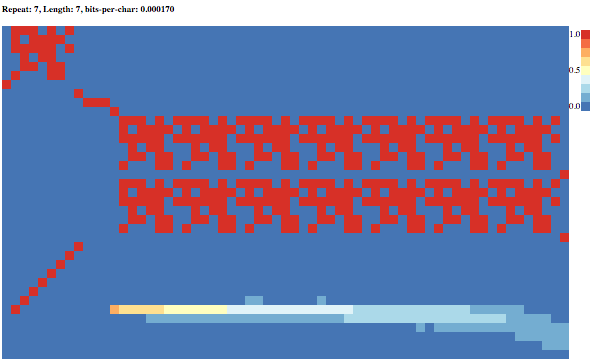
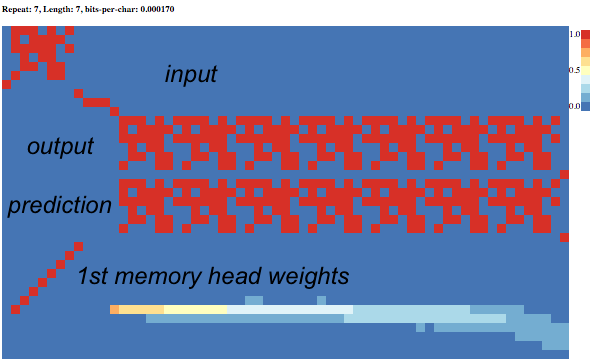
add images in readme

diff --git a/README.md b/README.md
@@ -18,12 +18,41 @@ To save the trained weights to disk, run `curl http://localhost:8088/Weights > w
 #### Testing
 To test the saved weights in the previous training step, run `go run copytask/test/main.go -weightsFile=weights`. Alternatively, you can also specify one of the successfully trained weights in the copytask/test folder such as the file copytask/test/seed11_28000.
 Upon running the above command, a web server would be started which can be accessed at http://localhost:9000/.
+Below are screenshots of the web page showing the testing results for a test case of length 20.
+The first figure shows the input, output, and predictions of the NTM, and the second figure shows the addressing weights of the memory head.
+
+<img src="readme_static/copy20.png">
+<img src="readme_static/copy20_weights.png" style="height: 5em;">
+
+The figure below shows the results for the test case of length 120. As mentioned in the paper, the NTM is able to perform pretty well in this case even though it is only trained on sequences whose length is at most 20.
+
+<img src="readme_static/copy120.png">
 
 ### Repeat copy
 To experiment on the repeat copy task, follow the steps of the copy task except changing the package from `copytask` to `repeatcopy`.
 
+In this task, I deviated from the paper a bit in an attempt to see if we could general NTM to unseed repeat numbers. In particular, I think that the paper's way of representing the repeat number as a scalar which is normalized to [0, 1] seems a bit too artificial, and I took a different approach by encoding the repeat number as a sequence of binary inputs. The reasoning behind my approach is that by distributing the encoding through time, there would be no upper limits on the repeat number, and given NTMs relatively strong memorizing abilities, this act of distributing through time should not pose too big a problem to NTMs. In addition, I also gave the NTMs two memory heads instead of one as in the paper for these repeat copy tasks. However, in the end the NTMs still was not able to generalize well on the repeat number.
+
+Below, I first show the results on the test case of repeat 7 and length 7. For this test case, we see the NTM is able to solve it perfectly by emitting the end signal unambiguously on the last time instant. Moreover, we see that the NTM solves it by assigning the first memory head the reponsibility of keeping count of the repeat times, and the second memory head the responsibility of replaying the input sequence.
+
+<img src="readme_static/repeatcopy7_h1.png">
+<img src="readme_static/repeatcopy7_h2.png">
+
+Next, we generalize the NTM to configurations unseen in the training step. The below figure shows the results on generalizing on the repeat number to 15. We see that the NTM fails on this generalization.
+
+<img src="readme_static/repeatcopy_seed4_repeat15_seqlen10.png">
+
+The below figure shows the results on generalizing on the sequence length to 15. We see that the NTM does a fairly good job as mentioned in the paper.
+
+<img src="readme_static/repeatcopy_seed4_repeat10_seqlen15.png">
+
 ### Dynamic N-grams
 To experiment on the dynamic n-grams task, follow the steps of the copy task except changing the package from `copytask` to `ngram`.
+
+The figure below shows the results of this task. We see that the bits-per-sequence loss is 133 which is close to the theoretical optimal value given by Bayesian analysis in the paper.
+Moreover, by observing the fact that the memory weights for the same 5-bit prefix remains the same throughout the entire testing sequence, we verified the paper's claim that the NTM solved this task by emulating the optimal Bayesian approach of keeping track of transitional counts.
+
+<img src="readme_static/ngram_seed2.png">
 
 ## Testing
 To run the tests of this package, run `go test -test.v`.
